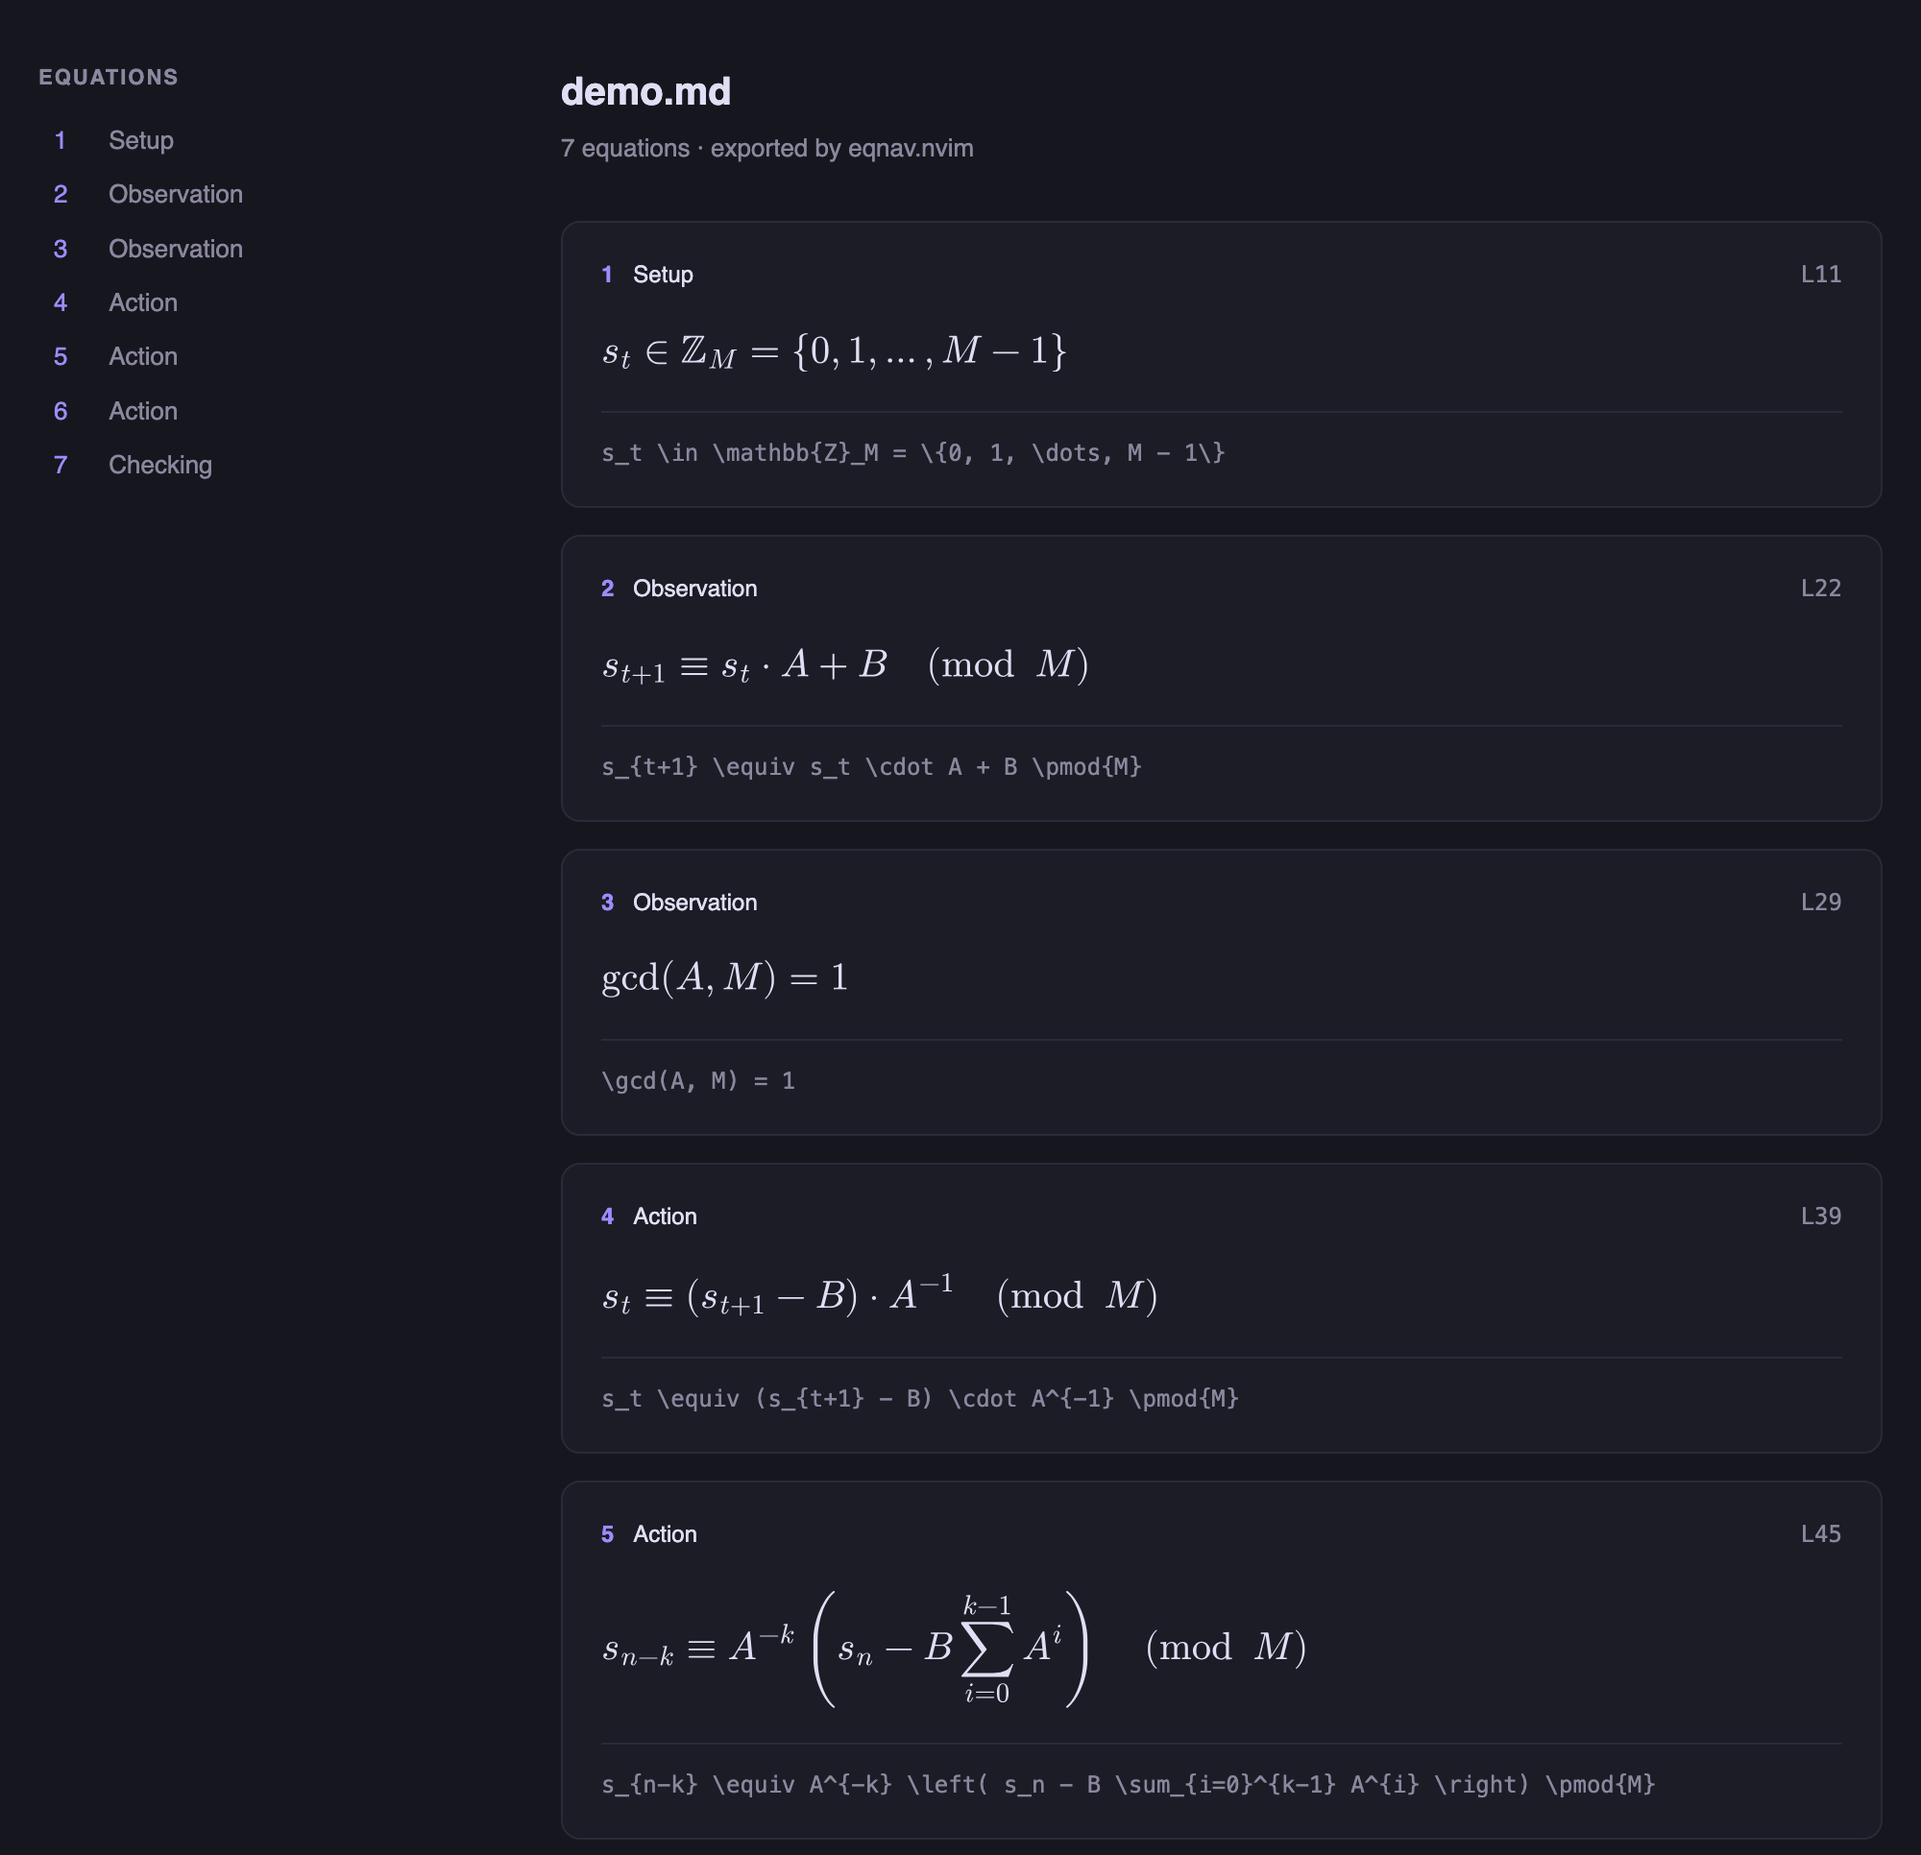
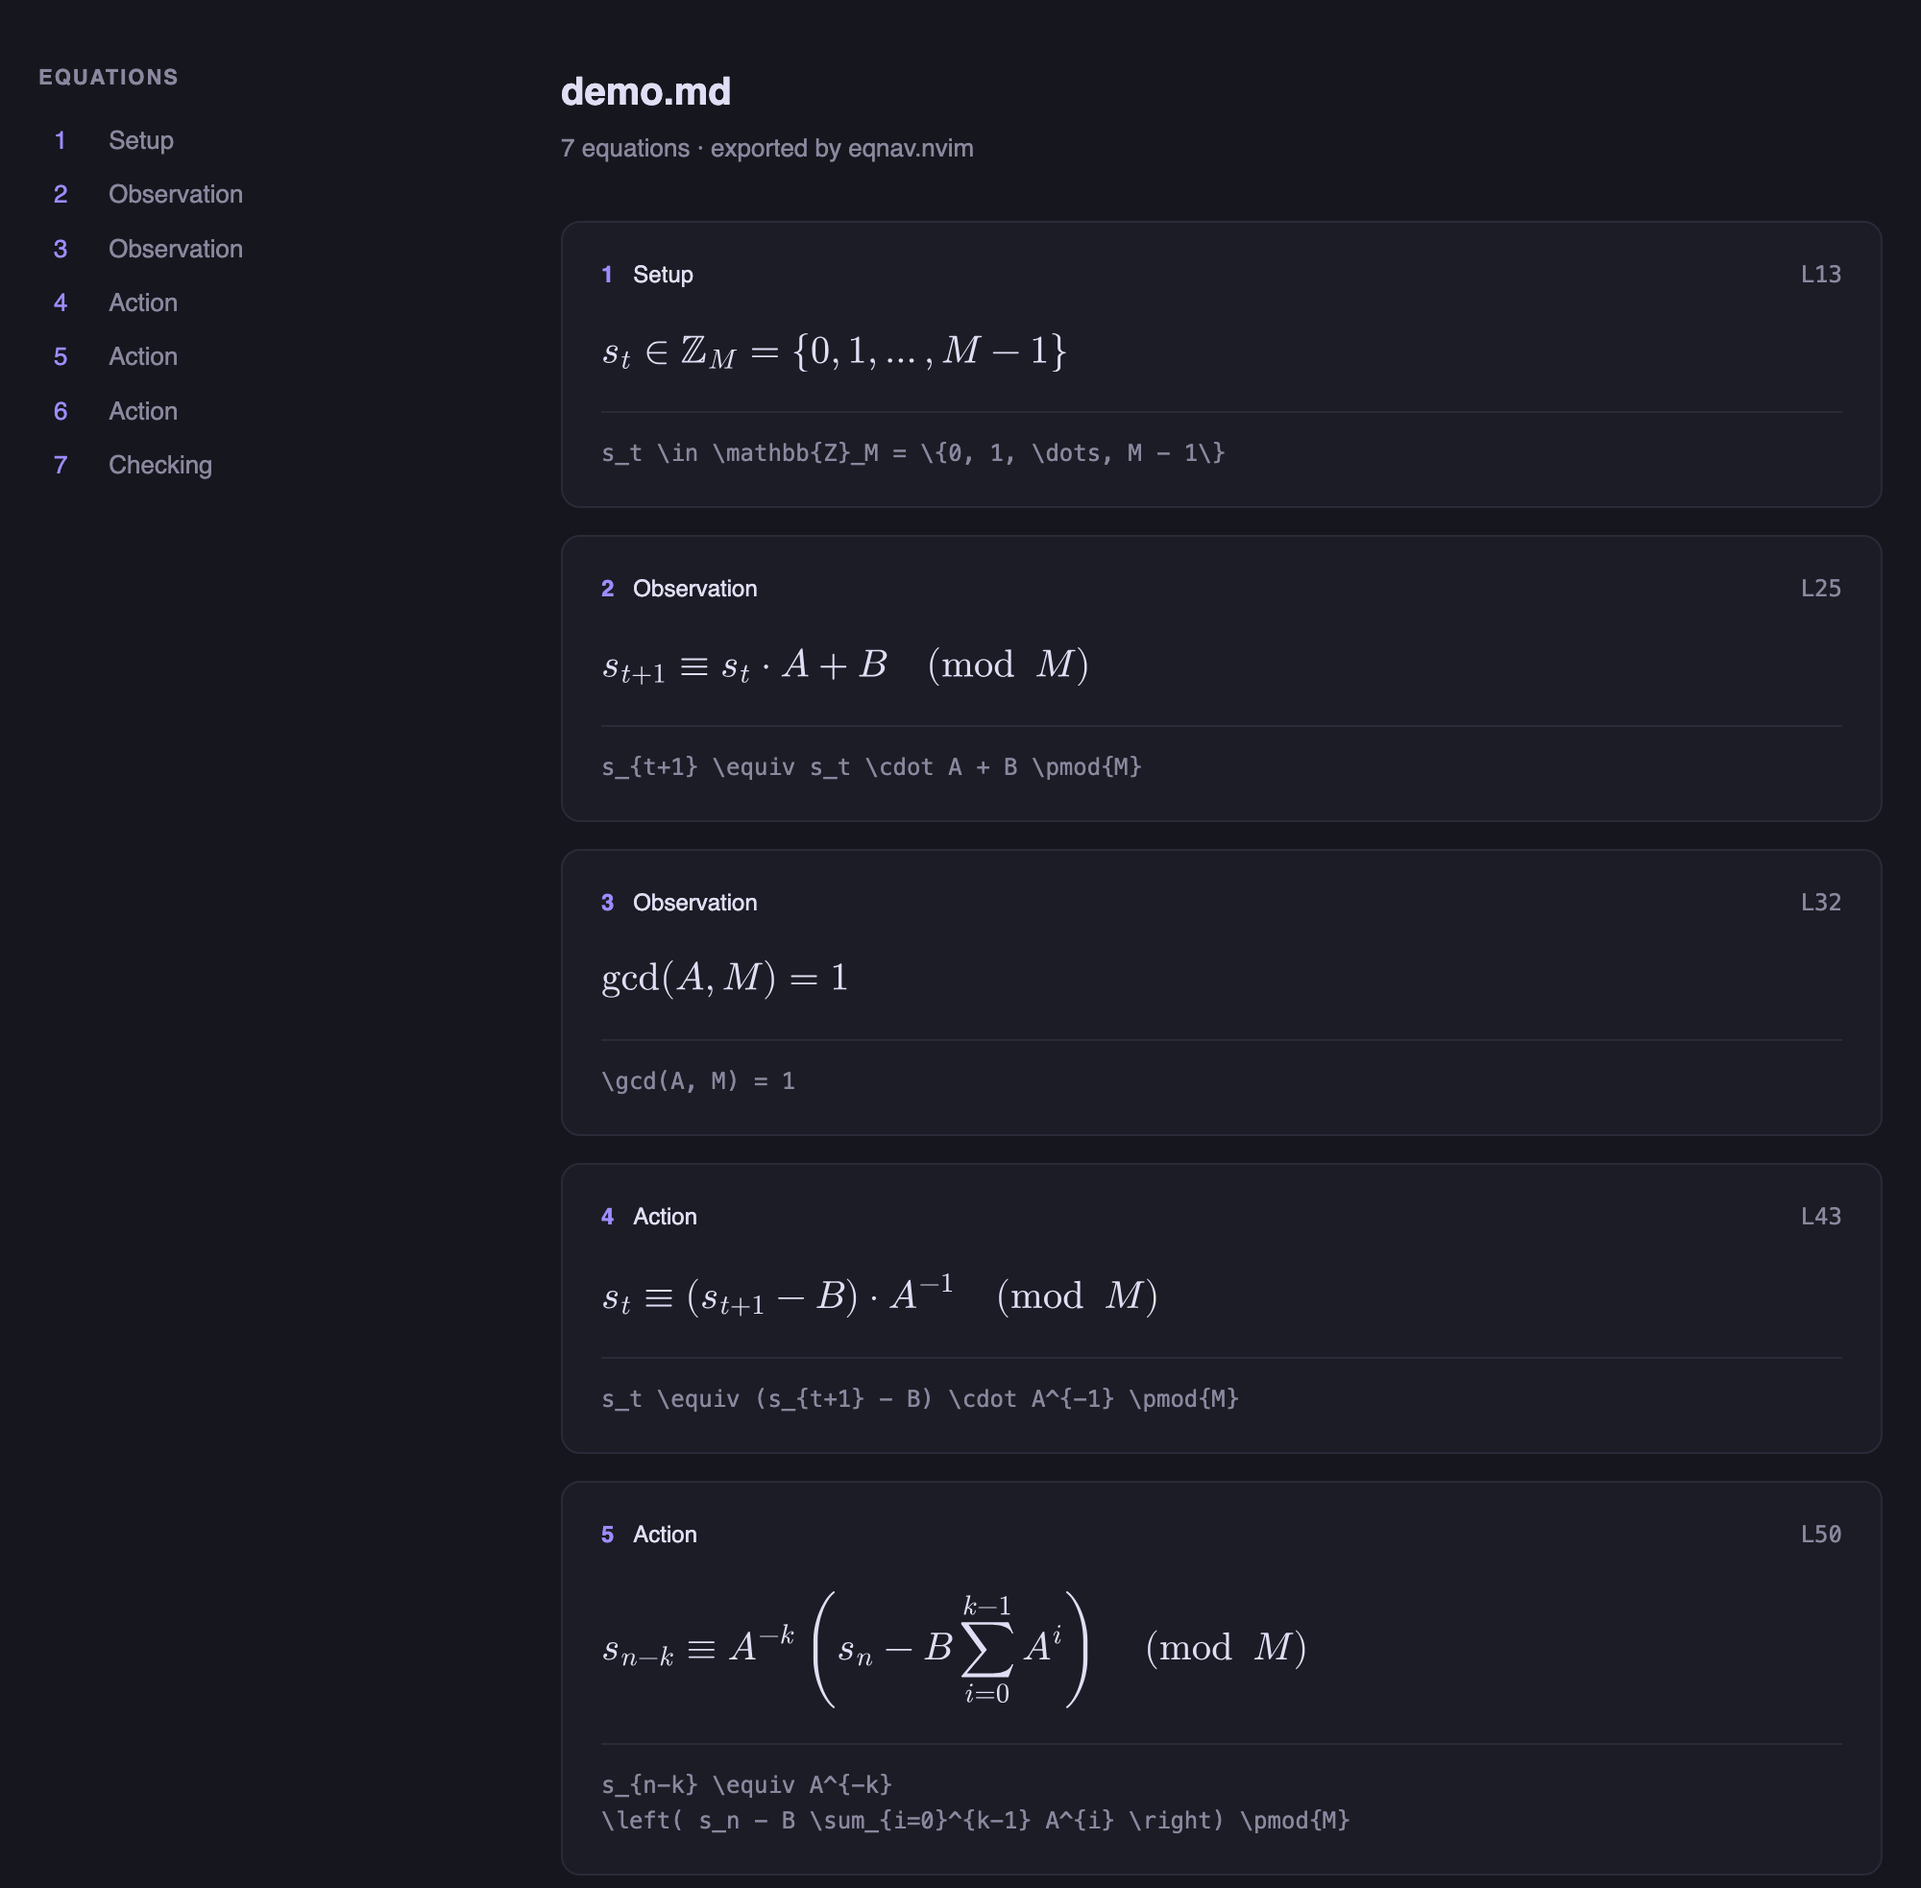
docs: record doc/demo.gif, and fit doc/demo.md to the recorded split
The GIF: Ghostty at 116x31 cells, a cold render cache, :Eqnav, the
equations rendering in, j/k down the index, and <CR> landing on L43 in
the source. 960 px wide, 12 s, 528K.

doc/demo.md's prose was wrapped at 78 columns, and the source window
beside the index is about 57, so every line broke mid-word in the
recording. It is now wrapped at 54, and the two long equations are
split over two lines inside their $$. That moves the line numbers, so
the README sketch and doc/demo-export.png are updated to match.

The export screenshot now waits for the page to settle
(--virtual-time-budget). Without it the layout could shift by about
60 px between runs, and the crop landed somewhere different each time.
Three runs now give byte-identical PNGs.

Fixes #29.

diff --git a/doc/demo.md b/doc/demo.md
@@ -1,19 +1,22 @@
 # Walking an LCG backwards
 
-Notes from a CTF challenge whose "random" padding came from a linear
-congruential generator. One leaked state and the generator's constants are
-enough to recover every state before it, the seed included.
+Notes from a CTF challenge whose "random" padding came
+from a linear congruential generator. One leaked state
+and the generator's constants are enough to recover
+every state before it, the seed included.
 
 ## Setup
 
-The generator keeps a single number, its state, reduced modulo $M$:
+The generator keeps a single number, its state,
+reduced modulo $M$:
 
 $$
 s_t \in \mathbb{Z}_M = \{0, 1, \dots, M - 1\}
 $$
 
-The constants $A$, $B$ and $M$ were hard-coded in the binary, and the fourth
-output leaked in an error message.
+The constants $A$, $B$ and $M$ were hard-coded in the
+binary, and the fourth output leaked in an error
+message.
 
 ## Observation
 
@@ -23,8 +26,8 @@ $$
 s_{t+1} \equiv s_t \cdot A + B \pmod{M}
 $$
 
-which means we can walk it backwards, as long as the multiplier has an
-inverse modulo $M$:
+which means we can walk it backwards, as long as the
+multiplier has an inverse modulo $M$:
 
 $$
 \gcd(A, M) = 1
@@ -34,28 +37,33 @@ $M$ is prime here, so any $A \neq 0$ qualifies.
 
 ## Action
 
-Undoing one step is a subtraction and a multiplication by the inverse:
+Undoing one step is a subtraction and a multiplication
+by the inverse:
 
 $$
 s_t \equiv (s_{t+1} - B) \cdot A^{-1} \pmod{M}
 $$
 
-Rather than loop, undo $k$ steps from the leaked state $s_n$ at once:
+Rather than loop, undo $k$ steps from the leaked state
+$s_n$ at once:
 
 $$
-s_{n-k} \equiv A^{-k} \left( s_n - B \sum_{i=0}^{k-1} A^{i} \right) \pmod{M}
+s_{n-k} \equiv A^{-k}
+\left( s_n - B \sum_{i=0}^{k-1} A^{i} \right) \pmod{M}
 $$
 
-The sum is geometric, so it has a closed form whenever $A - 1$ is invertible
-too:
+The sum is geometric, so it has a closed form whenever
+$A - 1$ is invertible too:
 
 $$
-\sum_{i=0}^{k-1} A^{i} \equiv \frac{A^{k} - 1}{A - 1} \pmod{M}
+\sum_{i=0}^{k-1} A^{i}
+\equiv \frac{A^{k} - 1}{A - 1} \pmod{M}
 $$
 
 ## Checking
 
-Stepping the recovered seed forward has to reproduce the leak:
+Stepping the recovered seed forward has to reproduce
+the leak:
 
 $$
 \begin{align*}
@@ -65,4 +73,5 @@ s_3 &\equiv s_0 \cdot A^3 + B (A^2 + A + 1)
 \end{align*}
 $$
 
-It did, and $s_0$ was the Unix timestamp of the server's start-up.
+It did, and $s_0$ was the Unix timestamp of the
+server's start-up.

diff --git a/README.md b/README.md
@@ -10,16 +10,16 @@ A separate, prose-free page of your document's **rendered** equations. Walk it w
 ```
  eqnav · 7 equations · demo.md                     │  ## Observation
                                                    │
-   1  Setup                                L11     │  The generator advances by one
+   1  Setup                                L13     │  The generator advances by one
       s_t ∈ ℤ_M = {0, 1, …, M − 1}                 │  multiply and one add:
                                                    │
-   2  Observation                          L22     │  $$
+   2  Observation                          L25     │  $$
       s_{t+1} ≡ s_t · A + B  (mod M)               │  s_{t+1} \equiv s_t \cdot A + B
                                                    │  $$
-   3  Observation                          L29     │
+   3  Observation                          L32     │
       gcd(A, M) = 1                                │  which means we can walk it
                                                    │  backwards, as long as…
-   4  Action                               L39     │
+   4  Action                               L43     │
       s_t ≡ (s_{t+1} − B) · A⁻¹  (mod M)           │
 ```
 
